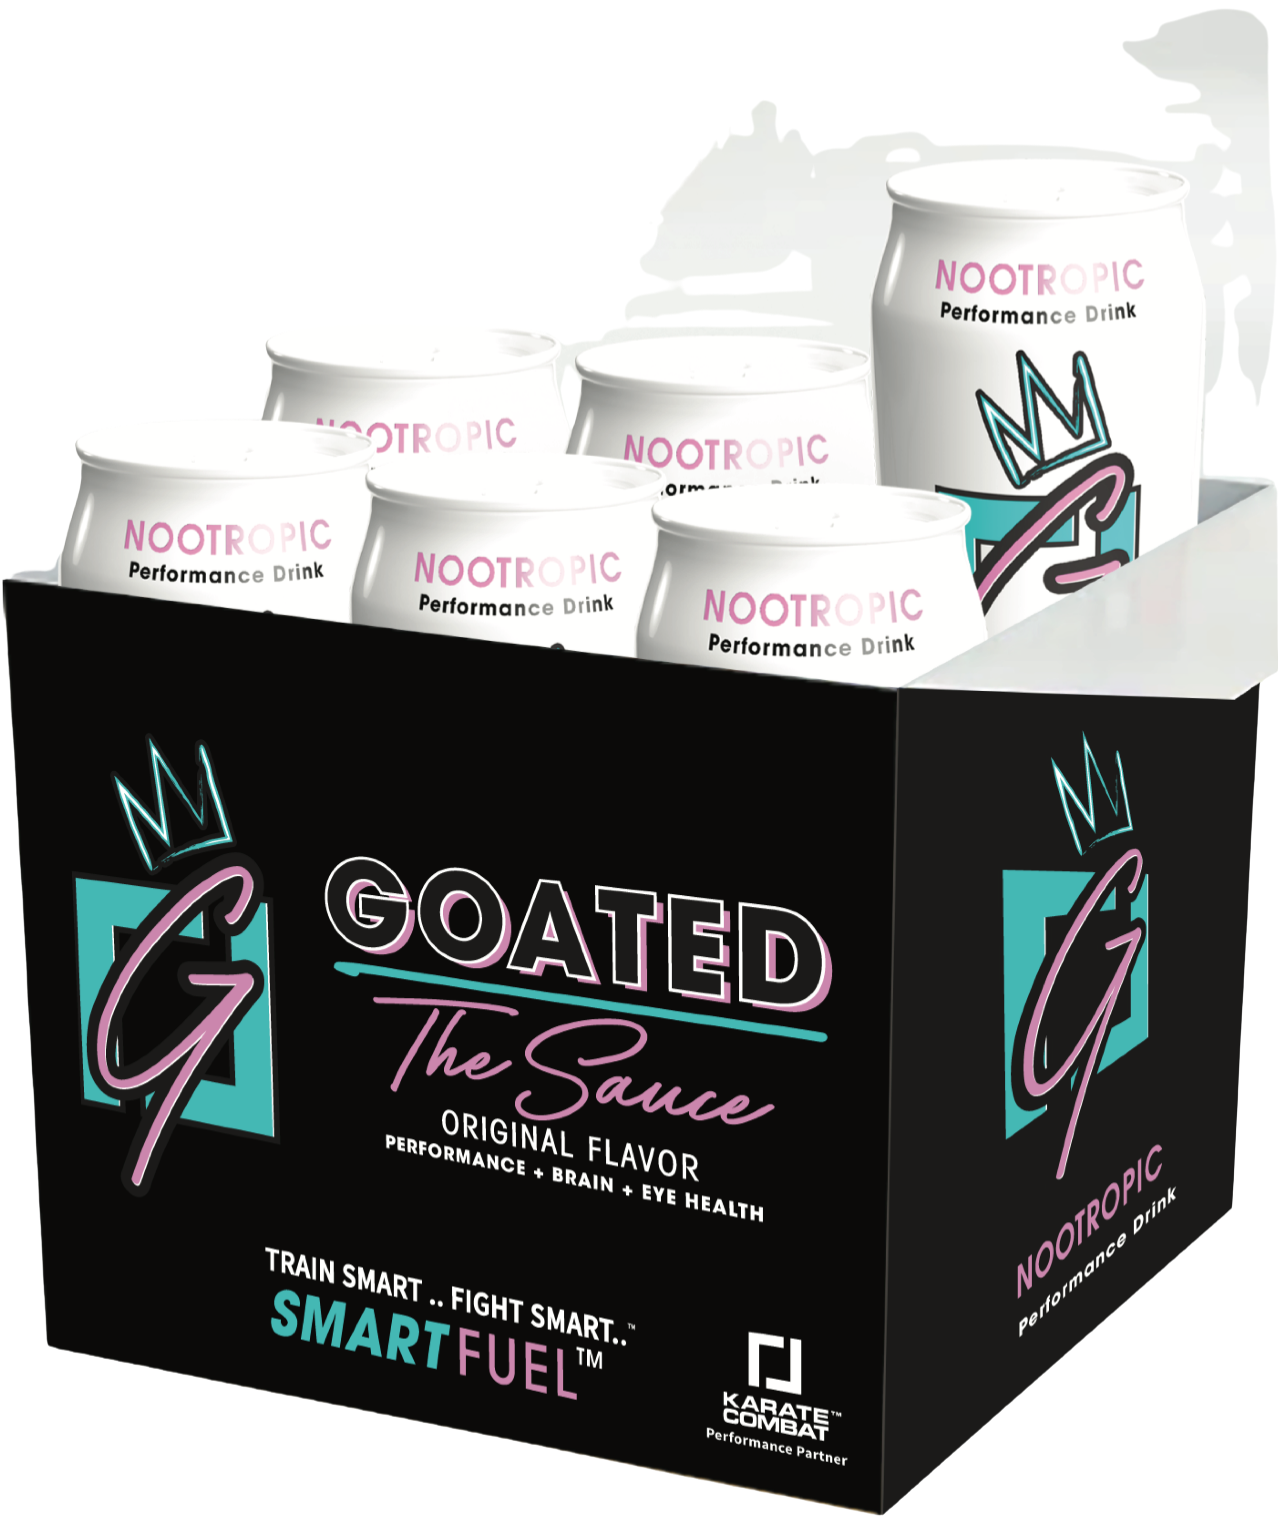
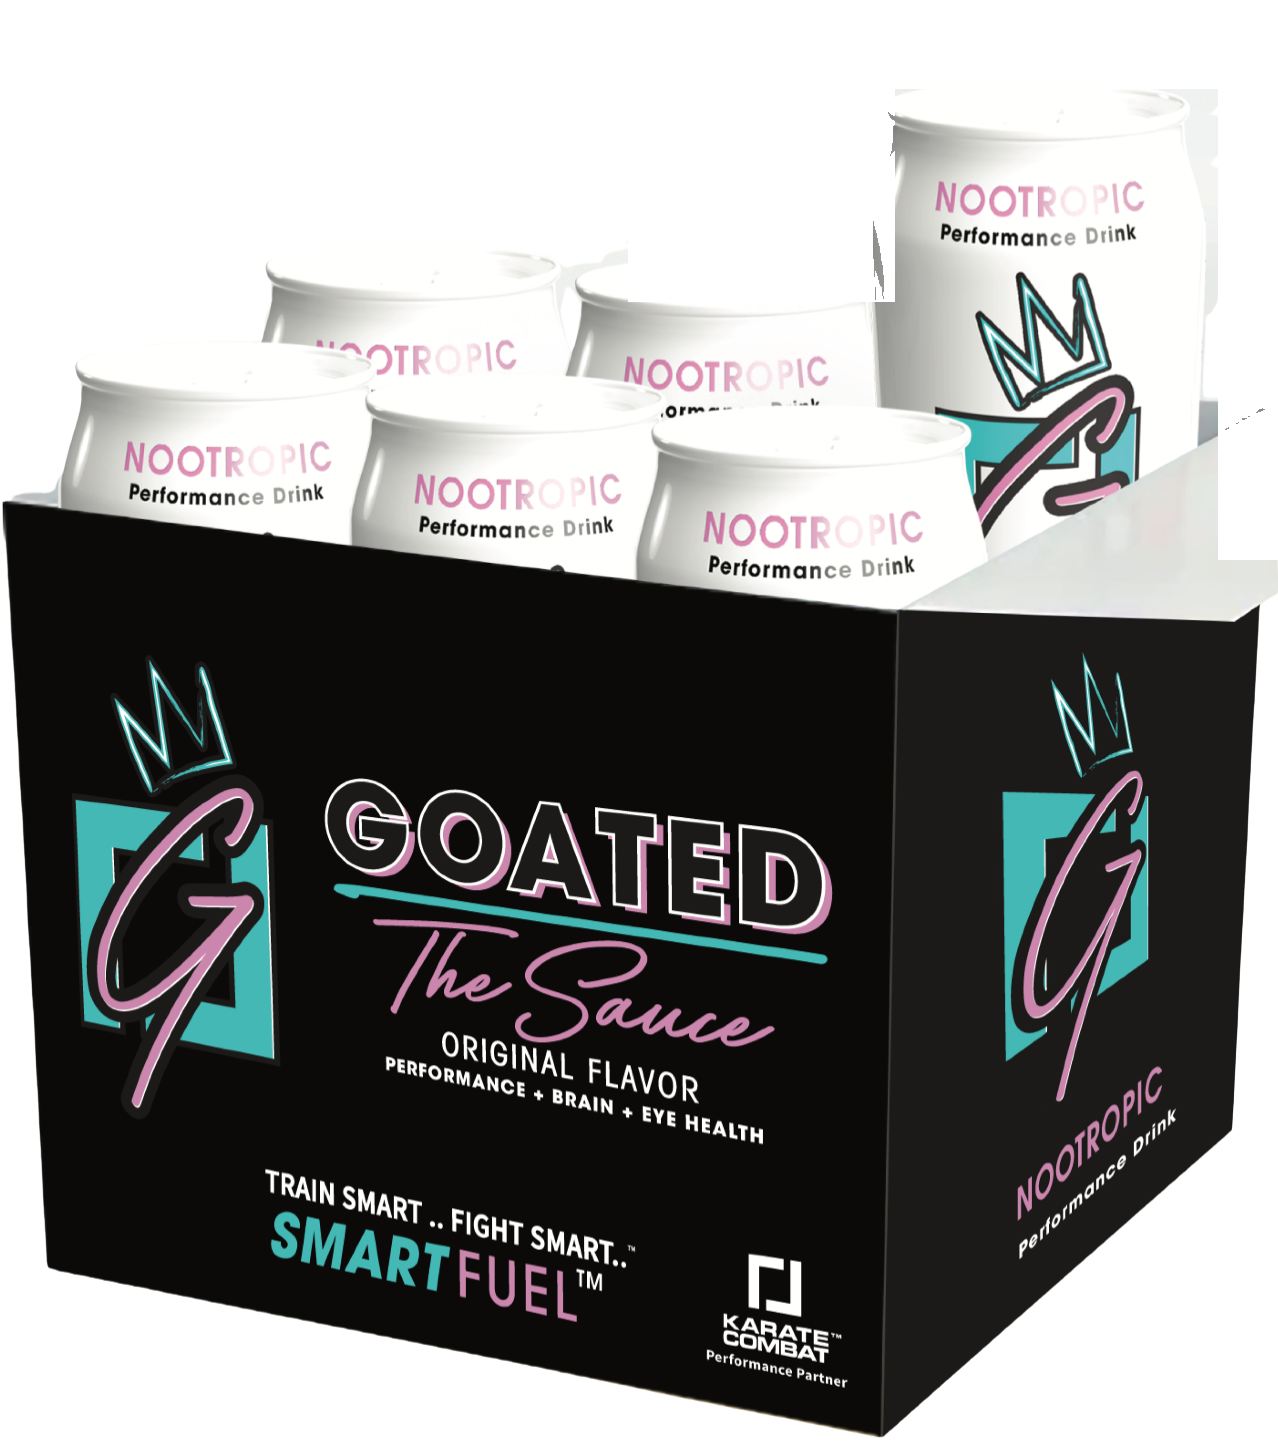
Box cutout: mask out open lid, retrim

diff --git a/index.html b/index.html
@@ -390,7 +390,7 @@
         <a class="btn btn-teal cta" href="/go" rel="nofollow sponsored">Get the 12 Pack for $42</a>
         <p class="ship">Free US shipping on orders over $149. Checkout happens on brainiqhealth.com.</p>
       </div>
-      <div class="offer-art"><img src="images/box-12pack.png" alt="GOATED The Sauce 12 pack box, black with teal and pink logo" width="1278" height="1524" loading="lazy"></div>
+      <div class="offer-art"><img src="images/box-12pack.png" alt="GOATED The Sauce 12 pack box, black with teal and pink logo" width="1278" height="1444" loading="lazy"></div>
     </div>
   </section>
 
